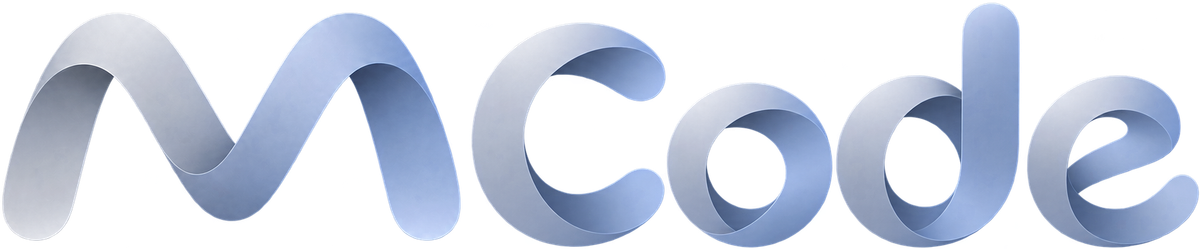
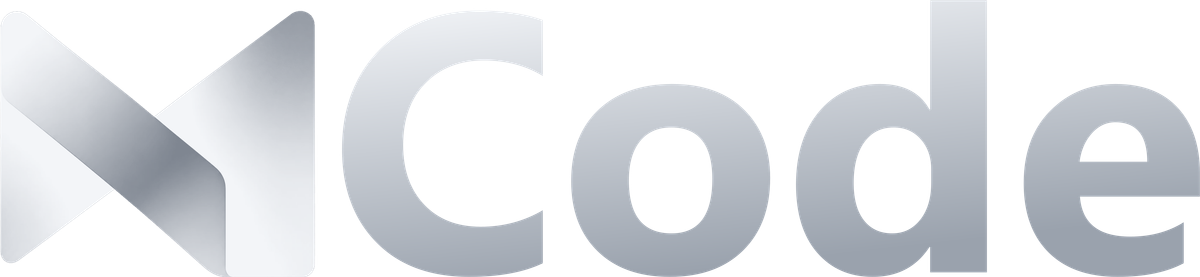
2.0: R33: the wordmark, the new M then Code
The home, session and error pages' wordmark is now the folded M standing
in for M, then "Code" in Segoe UI Bold: as tall as the capital C, on its
line, a tenth of its height apart. Graphite for the light theme; the
mark's silver cut with silver letters for the dark one; one canvas for
both. scripts/wordmark.mjs builds it from what icons.mjs writes and
refuses to draw when the face is missing. The old ribbon sources go.

diff --git a/scripts/smoke-round33.ts b/scripts/smoke-round33.ts
@@ -106,6 +106,34 @@ export async function roundThirtyThreeChecks(check: Check, section: (name: strin
     check("the colourways are different pictures, not copies of Classic", !classic.equals(graphite))
   }
 
+  section("Round 33: the wordmark, the new M then Code")
+  {
+    const light = at("src", "renderer", "src", "assets", "wordmark-light.png")
+    const dark = at("src", "renderer", "src", "assets", "wordmark-dark.png")
+    const [lightMeta, darkMeta] = await Promise.all([sharp(light).metadata(), sharp(dark).metadata()])
+    check("both themes share one canvas, so a theme change does not move it", lightMeta.width === darkMeta.width && lightMeta.height === darkMeta.height, { light: [lightMeta.width, lightMeta.height], dark: [darkMeta.width, darkMeta.height] })
+    const ratio = (lightMeta.width ?? 0) / (lightMeta.height ?? 1)
+    check("it is the M-and-Code line, not the old ribbon artwork's proportions", ratio > 3.9 && ratio < 4.7, ratio)
+    /** The mean colour of a strip's painted pixels: the C, a little past the M. */
+    const ink = async (file: string) => {
+      const { data, info } = await sharp(file).ensureAlpha().raw().toBuffer({ resolveWithObject: true })
+      let sum = 0
+      let count = 0
+      for (let y = 0; y < info.height; y++) {
+        for (let x = Math.round(info.width * 0.36); x < Math.round(info.width * 0.52); x++) {
+          const i = (y * info.width + x) * 4
+          if (data[i + 3]! > 250) (sum += data[i]!), count++
+        }
+      }
+      return count ? sum / count : -1
+    }
+    const [lightInk, darkInk] = await Promise.all([ink(light), ink(dark)])
+    check("the light theme's letters are graphite and the dark theme's silver", lightInk >= 0 && lightInk < 90 && darkInk > 170, { lightInk, darkInk })
+    const script = await fs.readFile(at("scripts", "wordmark.mjs"), "utf8")
+    check("the script refuses to draw in a fallback face", /No Such Face Anywhere/.test(script) && /if \(!\(await faceInstalled\(\)\)\) throw/.test(script))
+    check("the old ribbon sources are gone", !(await exists(at("resources", "wordmark-source.png"))) && !(await exists(at("resources", "wordmark-light-source.png"))))
+  }
+
   section("Round 33: the menu bar mark")
   {
     for (const [name, size] of [

diff --git a/HANDOFF.md b/HANDOFF.md
@@ -13,7 +13,7 @@
 - **分支**：`v2.0`，跟踪 `origin/v2.0`（私有仓库 `WyattCode/MCode`）。`main` 停在 https://github.com/WyattCode/MCode/pull/8 的合并提交 `5d941a80`（0.5.3，第二十七轮到第三十二轮）；`v2.0` 在那之后只多了交接文档的更新。开拉取请求、合进 `main`、发版都要**先问用户一声**（用户定的规矩：推分支直接做，对外、不好撤回的先问）。合并和发版用的 `gh pr merge`、`gh release create` 由用户在 `.claude/settings.local.json` 里放行（2026-09-27）。
 - **拉取请求**：#4、#5、#6、#7、#8 已合并（合并提交，标题照「MCode 2.0：0.5.3（#8）」的格式）。#3（`macos-hardening-v2`）已关闭：它声称的 16 条修复逐条对照过当前代码，5 条已被后来的工作修掉（含全部 3 条安全项）、2 条在本平台仍然存在并已修（0.4.6）、7 条只在 macOS 上能观察到，结论写在 #3 的关闭评论里。
 - **发布**：https://github.com/WyattCode/MCode/releases/tag/v0.5.3（预发布版，2026-09-27，附安装程序、blockmap、`latest.yml`）；之前是 v0.4.7、v0.4.5、v0.3.8。自动更新地址仍是占位的 `updates.invalid`，所以**发布不会触发任何自动更新**，装新版只能手动下载。
-- **验证状态**：typecheck、build 和十二项专项检查（含 sandboxcheck）全绿，smoke **7437 条全过**（2026-09-27，第三十三轮）。
+- **验证状态**：typecheck、build 和十二项专项检查（含 sandboxcheck）全绿，smoke **7442 条全过**（2026-09-27，第三十三轮）。
 - **已知差异**：对照 26.920 没有已知的、未决的界面差异。仍然不同的三类——用户定的刻意差异（见下）；依赖小米账号或小米服务的功能；需要 Linux / macOS 真机才能核对的细节。
 - **真实模型**：第二十七轮起用局域网模型真用过——撤销、删除提问、手动压缩都端到端验证过（见那一节）；第三十一轮的排队、联网搜索、代码模式也在真模型上跑通了（见第三十二轮末尾）；用户自己也在日常用（第二十九轮的两个问题就是用出来的）。
 
@@ -23,7 +23,7 @@
 npm run dev          # 开发版（先结束残留的 node_modules/electron/dist/electron.exe）
 npm run typecheck
 npm run build
-npm run smoke        # 当前 7437 条（2026-09-27）
+npm run smoke        # 当前 7442 条（2026-09-27）
 npm run package      # 打包 + 自动递增补丁号，不要手改版本号
 ```
 
@@ -210,7 +210,9 @@ npm run package      # 打包 + 自动递增补丁号，不要手改版本号
 - **菜单栏**：`resources/tray/trayTemplate*.png` 由标志的轮廓生成，折面留成半透明，16 点下仍能看出折痕。旧的 `scripts/tray-icon.mjs` 删了。
 - **`electron-builder.yml`**：`mac.icon` 改为 `build/icon.icon`；dmg 仍用 `.icns`。**这意味着 macOS 打包需要装了 Xcode 26 或更新版本的 Mac**：electron-builder 用 `actool` 把 `.icon` 编成 `Assets.car`，并从它生成给旧版 macOS 的 `.icns`。这台 Windows 机器上不能打 macOS 包，所以 `.icon` 在 Mac 上的实际渲染还没看过。
 
-**验证**：`scripts/smoke-round33.ts` 32 条（折面不透明、主体仍是深色、ico 七个尺寸、小尺寸放大、`.icon` 结构与深色外观、每款配色两个平台都有、托盘是黑色加半透明折面并居中），每条都故意改坏验证过能失败；这一轮第一次证伪时发现「托盘全实心」没被抓到（边缘抗锯齿本来就有半透明），改成检查形状内部的像素。真窗口里看过设置页图库（浅色、深色）和选 Indigo 后窗口图标跟着换。smoke 7437，十二项专项检查全过。
+**字标**（用户看了两版后选 B）：首页、对话页和出错页的「MCode」字标改成新折叠 M 加 Segoe UI 粗体的「Code」——M 与大写 C 同高、同一条基线、间距为 M 高度的 10%；浅色主题是石墨色字，深色主题用标志的银色版（`.icon` 的深色外观那张）配银色字，两张同一块画布，切换主题不跳。由 `scripts/wordmark.mjs` 生成（先跑 `icons.mjs`），旧的丝带风格源图 `resources/wordmark-*.png` 删了。Segoe UI 随 Windows 提供；在没有它的机器上脚本会拒绝生成（拿同一个词和一个不存在的字体名各渲染一次，图一样就说明字体没找到——只比宽高比分不出来，退回字体的比例几乎一样）。Bahnschrift 版（A）没采用。另外，fontconfig 找不到「Segoe UI Variable」，会退回等宽字体，所以没法用它。
+
+**验证**：`scripts/smoke-round33.ts` 37 条（折面不透明、主体仍是深色、ico 七个尺寸、小尺寸放大、`.icon` 结构与深色外观、每款配色两个平台都有、托盘是黑色加半透明折面并居中），每条都故意改坏验证过能失败；这一轮第一次证伪时发现「托盘全实心」没被抓到（边缘抗锯齿本来就有半透明），改成检查形状内部的像素。真窗口里看过设置页图库（浅色、深色）、选 Indigo 后窗口图标跟着换、首页字标（浅色、深色）。smoke 7442，十二项专项检查全过。
 
 ### 第三十二轮：二次复核第三十一轮（2026-09-27）
 
